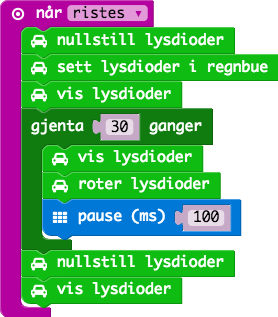
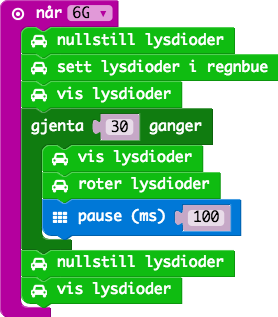
Fixed rainbow task

Changed region(s): [[0.259, 0.0, 0.5755, 0.0852]]

diff --git a/no/bitbot/rainbow/code.js b/no/bitbot/rainbow/code.js
@@ -1,4 +1,4 @@
-input.onGesture(Gesture.Shake, () => {
+input.onGesture(Gesture.SixG, () => {
     bitbot.neoClear()
     bitbot.neoRainbow()
     bitbot.neoShow()
